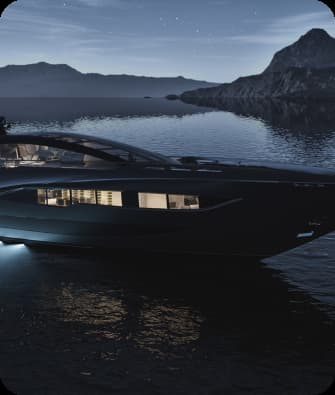
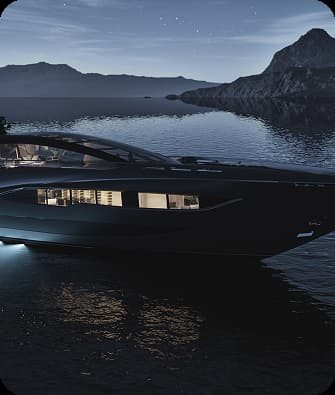
half css

diff --git a/src/css/about-us.css b/src/css/about-us.css
@@ -1,8 +1,70 @@
+.container{
+    margin:0px;
+    padding: 0px;
+    background-color: #fff;
+}
+
 .about-us{
     margin-top: -59px;
         position: relative;
         z-index: 2;
+        display: flex;
+        justify-content: center;
+        align-items: center;
+        flex-direction: column;
 }
+
 .about-us-image {
-    max-width: 100%;
+    width: 335px;
+    height: 395px;
+    border-radius: 20px;
 }
+
+.about-us h2{
+    font-family: "Inter", sans-serif;
+    font-weight: 500;
+        font-size: 28px;
+        line-height: 1;
+        letter-spacing: -0.02em;
+        color: #1b414b;
+        margin: 40px 20px 40px 20px;
+}
+
+.about-us .first-p{
+    font-family: "Inter", sans-serif;
+    font-weight: 400;
+        font-size: 18px;
+        line-height: 1;
+        letter-spacing: -0.02em;
+        color: #1b414b;
+        margin: 40px 20px 20px 20px;
+}
+
+.about-us .second-p{
+    font-family: "Inter", sans-serif;
+    font-weight: 400;
+        font-size: 12px;
+        line-height: 1.16667;
+        letter-spacing: -0.02em;
+        color: #040306;
+        opacity: 0.4;
+        margin: 20px 20px 40px 20px;
+}
+
+@media (min-width: 768px) and (max-width: 1279px){
+    .about-us-image {
+        width: 704px;
+        height: 407px;
+    }
+
+    .about-us h2{
+        
+    }
+}
+
+@media (min-width: 1280px){
+    .about-us-image {
+        width: 1180px;
+        height: 470px;
+    }
+ }

diff --git a/src/partials/about-us.html b/src/partials/about-us.html
@@ -1,5 +1,5 @@
 <div class="container">
-    <section class="about-us">
+    <section class="about-us" id="about-us">
         <div class="about-us-text">
             <h2>YachtJet fleet is here to take you on the ultimate adventure</h2>
             <p class="first-p">From spacious decks to state-of-the-art technology, our yachts are designed to provide the perfect blend
@@ -10,12 +10,13 @@
          </div>
             <picture>
                 <source srcset="../img/about-us/luxury-yacht-mobile.jpg 1x, ../img/about-us/luxury-yacht-mobile@2x.jpg 2x"
-                    media="(max-width: 767px)">
+                    media="(max-width: 767px)"/>
                 <source srcset="../img/about-us/luxury-yacht-tablet.jpg 1x, ../img/about-us/luxury-yacht-tablet@2x.jpg 2x"
-                    media="(min-width: 768px)">
+                    media="(min-width: 768px) and (max-width: 1279px)"/>
                 <source srcset="../img/about-us/luxury-yacht.jpg 1x, ../img/about-us/luxury-yacht@2x.jpg 2x"
-                    media="(min-width: 1280px)">
+                    media="(min-width: 1280px)"/>
                 <img class="about-us-image" src="../img/about-us/luxury-yacht-mobile.jpg" alt="Luxury Yacht"/>
             </picture>
     </section>
 </div>
+<link rel="stylesheet" href="../css/about-us.css">
